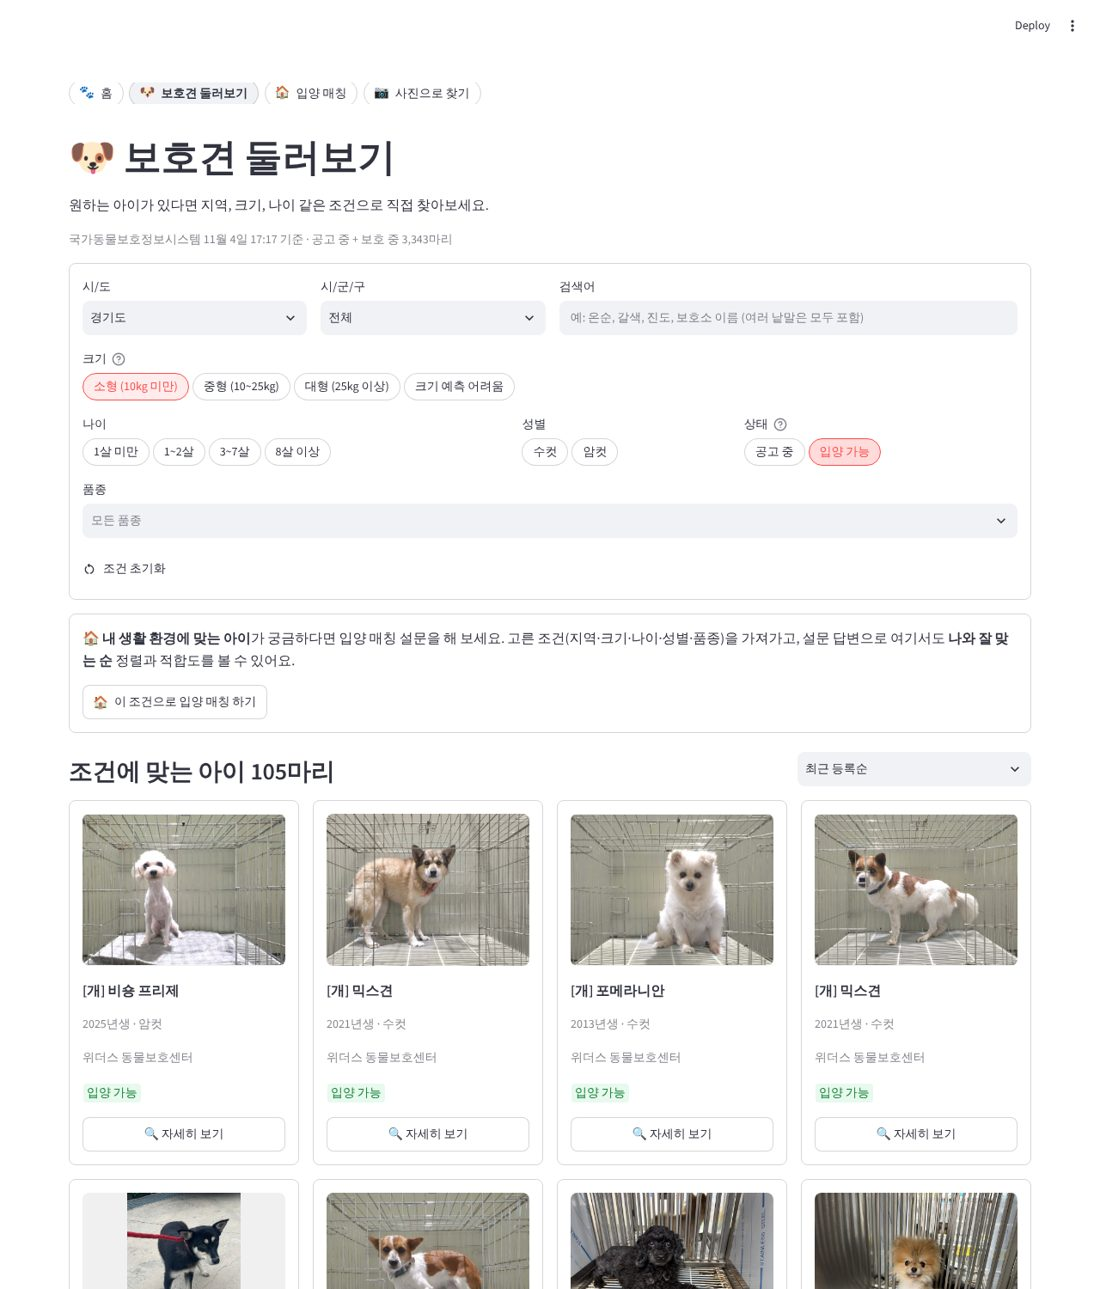
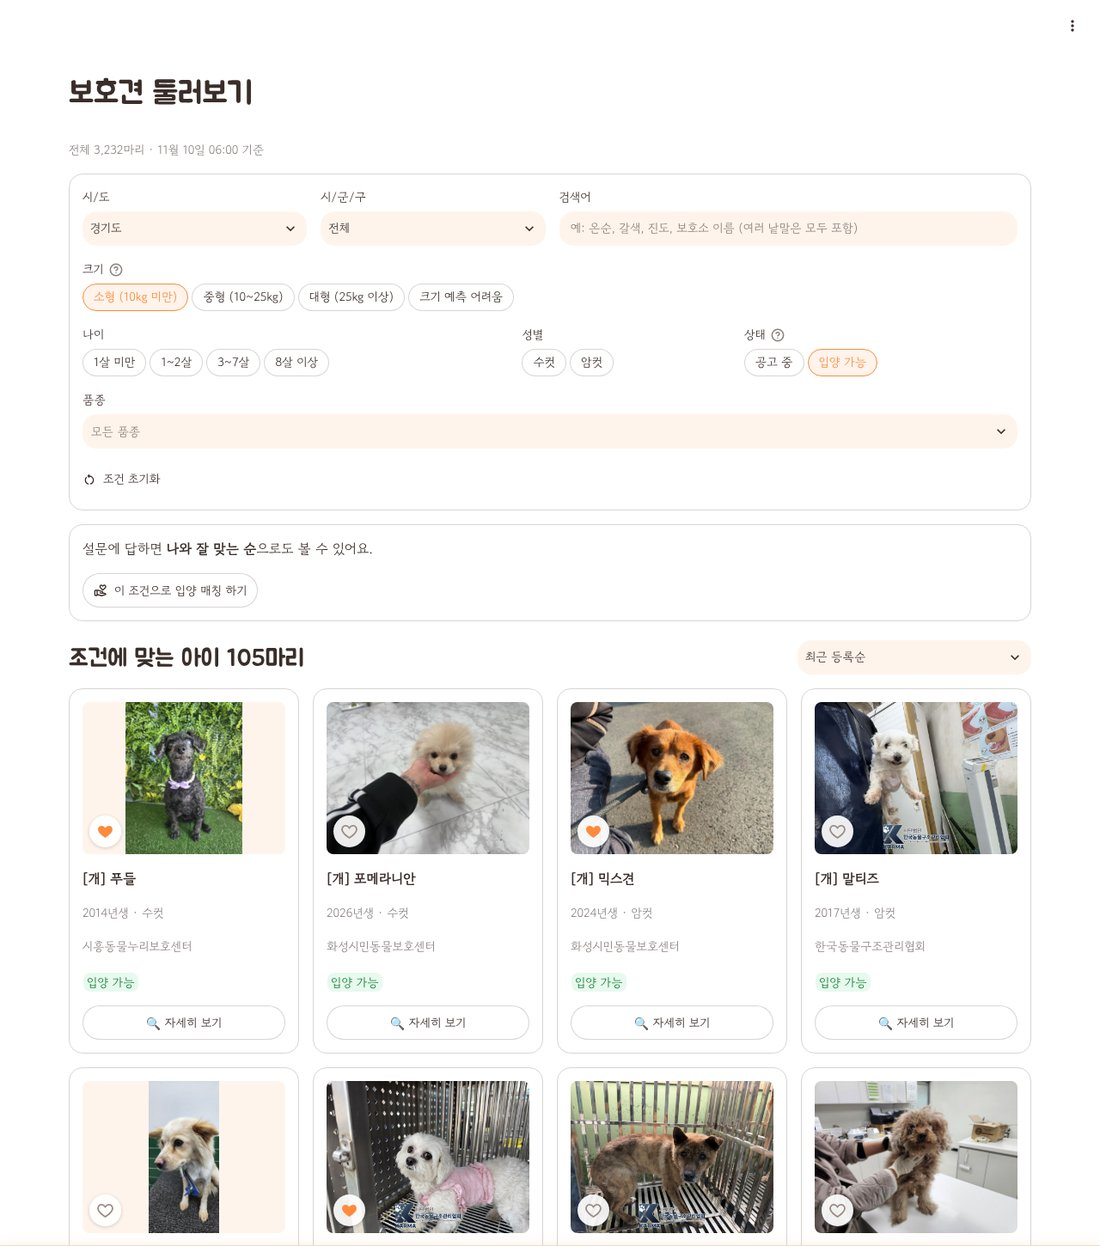
README 정리: 새 스크린샷, 시스템 구조 그림, 찜하기·사용자 테스트 내용 추가
- 스크린샷을 지금 화면(하단 탭, 새 홈, 찜)으로 다시 찍고 찜한 아이 화면 추가
- 시스템 구조 그림(mermaid): 공공데이터 API → GitHub Actions → data 브랜치 → 앱 → 브라우저
- 찜하기 설명, 테스터 의견과 반영 내용(PR #16~#22) 표 추가
- 주요 기능·기술 스택·프로젝트 구조·배포 안내를 지금 코드에 맞춤

Claude-Session: https://claude.ai/code/session_01TUSA3UeiAMG3JgcQUXBP4t

diff --git a/README.md b/README.md
@@ -9,10 +9,11 @@
 
 **🔗 데모: https://pawmatch-kr.streamlit.app**
 
-- 🐾 **홈**: 내 위치나 고른 지역에서 가까운 보호소의 아이들부터 보기
-- 🐶 **보호견 둘러보기**: 원하는 아이가 있다면 지역·크기·나이·품종 같은 조건으로 직접 찾기
-- 🏠 **입양 매칭**: 어떤 아이가 맞을지 모르겠다면 생활 환경 설문으로 잘 맞는 아이와 그 이유 알아보기
+- 🏠 **홈**: 내 위치나 고른 지역에서 가까운 보호소의 아이들부터 보기
+- 🐾 **보호견 둘러보기**: 원하는 아이가 있다면 지역·크기·나이·품종 같은 조건으로 직접 찾기
+- 🤝 **입양 매칭**: 어떤 아이가 맞을지 모르겠다면 생활 환경 설문으로 잘 맞는 아이와 그 이유 알아보기
 - 📷 **사진으로 찾기**: 강아지 사진을 올리면 생김새가 비슷한 보호견 찾기
+- 🧡 **찜**: 마음에 드는 아이를 하트로 모아 두고 다시 보기
 
 ## 주요 기능
 
@@ -23,7 +24,8 @@
 | 마감 임박 우선 보기 | 보호견 둘러보기의 '공고 마감 임박순' 정렬 | 완료 |
 | 입양 매칭 | 생활 환경 설문(주거 형태, 산책 시간, 반려 경험, 가족 구성, 집 비우는 시간)으로 적합도 점수를 계산해 추천 이유·주의할 점과 함께 추천. 원하는 크기·나이·성별·품종은 선택 항목. '자세히 보기'로 사진 넘겨 보기·상세 정보·보호소 주소와 연락처 확인 | 완료 |
 | 사진으로 찾기 | 강아지 사진을 올리거나 찍으면 사전학습 이미지 모델(CLIP)로 생김새가 비슷한 보호견 검색, 지역으로 좁히기 | 완료 |
-| 화면 이동 | 모든 화면 위 바로가기 버튼 줄(모바일에서도 항상 보임), 홈 바로가기 카드. 다른 화면에 갔다 와도 입력한 조건 유지. 한 번 받은 내 위치·켠 카메라는 30분 동안 다시 묻지 않음 | 완료 |
+| 찜하기 | 카드 사진 왼쪽 아래 하트로 마음에 드는 아이를 모아 두고 '찜' 탭에서 보기. 찜 목록은 브라우저에만 저장(로그인 필요 없음) | 완료 |
+| 화면 이동 | 화면 맨 아래 고정 아이콘 탭(홈·둘러보기·매칭·사진 찾기·찜), 홈 맨 아래 바로가기 카드. 다른 화면에 갔다 와도 입력한 조건 유지. 한 번 받은 내 위치·켠 카메라는 30분 동안 다시 묻지 않음 | 완료 |
 | 데이터 자동 갱신 | GitHub Actions가 30분마다 데이터를 받아 두어 첫 화면이 빠르게 열림 | 완료 |
 
 ## 데모 / 스크린샷
@@ -35,12 +37,14 @@
 > 사진으로 찾기는 처음 사진을 올릴 때 분석 모델을 준비하느라 조금 더 걸립니다.
 
 ### 홈: 가까운 보호소의 아이들
-고른 지역(예: 경기도 수원시) 안의 보호소를 먼저, 그다음 가까운 보호소 순으로 보호소별로 묶어 보여줍니다.
+맨 위에는 지금 가족을 기다리는 아이 수만 짧게 보여주고(서비스 소개는 'ⓘ 소개' 버튼 안), 바로 아래에서
+내 위치나 고른 지역(예: 경기도) 안의 보호소를 먼저, 그다음 가까운 보호소 순으로 보호소별로 묶어 보여줍니다.
 
 ![홈 화면](docs/images/home.jpg)
 
 ### 보호견 둘러보기: 조건으로 직접 찾기
 지역·크기·나이·성별·상태·품종·검색어로 거르고, 최근 등록순·공고 마감 임박순·오래 기다린 순으로 정렬합니다.
+사진 왼쪽 아래 하트(♡)를 누르면 찜 목록에 들어갑니다.
 
 ![보호견 둘러보기](docs/images/browse.jpg)
 
@@ -59,8 +63,13 @@
 
 ![사진으로 찾기](docs/images/photo_search.jpg)
 
+### 찜한 아이
+어느 화면에서든 하트를 누른 아이를 '찜' 탭에서 모아 봅니다. 찜 목록은 이 기기의 브라우저에만 저장됩니다.
+
+![찜한 아이](docs/images/favorites.jpg)
+
 ### 휴대폰 화면
-모든 화면 위에 바로가기 버튼 줄이 있어 휴대폰에서도 메뉴를 바로 찾을 수 있습니다.
+화면 맨 아래 고정 아이콘 탭으로 어느 화면에서든 바로 이동합니다. (왼쪽부터 홈, 둘러보기, 찜)
 
 ![휴대폰 화면](docs/images/mobile.jpg)
 
@@ -71,14 +80,32 @@
 - **데이터**: 공공데이터포털 국가동물보호정보시스템 구조동물 조회 서비스
 - **이미지 검색**: 사전학습 이미지 모델 CLIP ViT-B/32 (ONNX), [fastembed](https://github.com/qdrant/fastembed) + onnxruntime (PyTorch 없이 CPU로 실행)
 - **데이터 갱신**: GitHub Actions (30분마다 실행, `data` 브랜치에 스냅샷 저장)
-- **디자인**: 흰 배경 + 주황 포인트(`#FF8A3D`) 테마(`.streamlit/config.toml`), 휴대폰이 다크 모드여도 밝은 화면 유지. 글꼴 Jua(제목)·Gowun Dodum(본문)
+- **디자인**: 흰 배경 + 주황 포인트(`#FF8A3D`) 테마(`.streamlit/config.toml`), 휴대폰이 다크 모드여도 밝은 화면 유지. 글꼴 Jua(제목)·Gowun Dodum(본문), Material 아이콘. 화면 맨 아래 고정 탭
+- **찜 저장**: 브라우저 localStorage ([streamlit-js-eval](https://github.com/aghasemi/streamlit_js_eval)로 읽기)
 - **배포**: [Streamlit Community Cloud](https://streamlit.io/cloud) (GitHub 푸시 시 자동 반영)
+
+## 시스템 구조
+
+```mermaid
+flowchart LR
+    API["공공데이터포털<br/>구조동물·보호소 API"] -->|"30분마다"| GA["GitHub Actions<br/>fetch_data.py<br/>build_embeddings.py"]
+    GA -->|"snapshot.json.gz<br/>embeddings.npz"| DATA[("data 브랜치")]
+    DATA --> APP["Streamlit 앱<br/>Community Cloud"]
+    API -.->|"저장된 데이터가 오래됐을 때만"| APP
+    KAKAO["카카오 로컬 API"] -.->|"시/군/구 좌표"| APP
+    APP <--> USER["사용자 브라우저"]
+    USER --- LS[("localStorage<br/>찜 목록")]
+```
+
+- 공공데이터 API는 느리고 가끔 끊겨서, GitHub Actions가 미리 받아 둔 스냅샷을 앱이 바로 읽습니다. ([데이터 자동 갱신](#데이터-자동-갱신-github-actions))
+- 사진으로 찾기에 쓰는 보호견 사진 임베딩도 같은 워크플로에서 새로 들어온 사진만 계산해 둡니다. ([사진으로 찾기](#사진으로-찾기))
+- 사용자가 올린 사진, 내 위치, 찜 목록은 서버에 저장하지 않습니다.
 
 ## 프로젝트 구조
 
 ```
 PawMatch/
-├── app.py               # Streamlit 진입점 (페이지 내비게이션)
+├── app.py               # Streamlit 진입점 (페이지 목록, 하단 탭, 배포 갱신 때 모듈 다시 불러오기)
 ├── CLAUDE.md            # AI 코딩 도구(Claude Code) 작업 규칙
 ├── .streamlit/config.toml # 화면 테마 (색·글꼴·모서리)
 ├── pytest.ini           # 테스트 설정 (프로젝트 루트를 모듈 경로에 추가)
@@ -86,7 +113,8 @@ PawMatch/
 │   ├── home.py          # 홈
 │   ├── browse.py        # 보호견 둘러보기
 │   ├── match.py         # 입양 매칭
-│   └── photo_search.py  # 사진으로 찾기
+│   ├── photo_search.py  # 사진으로 찾기
+│   └── favorites.py     # 찜한 아이
 ├── pawmatch/            # 핵심 로직
 │   ├── config.py        # 환경 변수(API 키) 로딩
 │   ├── api.py           # 공공데이터 API 클라이언트 (유기견, 보호소, 동시 요청·재시도)
@@ -100,7 +128,8 @@ PawMatch/
 │   ├── matching.py      # 설문 기반 매칭 점수 계산
 │   ├── browse.py        # 보호견 둘러보기 조건 검색·정렬
 │   ├── display.py       # 나이·성별·공고 상태 표시 문구
-│   ├── ui.py            # 유기견 카드·사진 캐러셀 (사진 대체 처리 포함), 데이터 로딩 화면
+│   ├── ui.py            # 유기견 카드·사진 캐러셀 (사진 대체 처리 포함), 하단 탭, 데이터 로딩 화면
+│   ├── favorites.py     # 찜하기: 하트 버튼, 브라우저 저장(localStorage), 찜 목록 읽기
 │   ├── detail.py        # 유기견 상세 정보 창 (사진, 정보, 보호소 주소·연락처)
 │   └── image_search.py  # 사진으로 찾기: CLIP 임베딩 만들기·저장·유사도 검색
 ├── scripts/
@@ -190,6 +219,10 @@ PawMatch/
 
 4. **Deploy** 클릭. 이후 해당 브랜치에 푸시하면 자동으로 다시 배포됩니다.
 
+> 앱이 켜진 채로 새 코드가 들어오면 Streamlit은 `app.py`만 새로 읽고 `pawmatch/` 모듈은 예전 코드를 그대로 써서
+> 오류가 날 수 있습니다. 그래서 `app.py`가 `pawmatch/` 파일이 바뀐 것을 보면 모듈을 다시 불러오게 했습니다.
+> 그래도 화면이 예전 그대로면 오른쪽 아래 **Manage app → Reboot app**을 눌러 주세요.
+
 ## 데이터 자동 갱신 (GitHub Actions)
 
 공공데이터 API는 한 번 요청에 2~9초가 걸리고 가끔 연결이 끊겨서, 데이터를 미리 받아 둡니다.
@@ -225,6 +258,14 @@ GitHub Actions (매시 7분·37분)        Streamlit 앱
 - 사진 한 장 분석 약 70ms, 모델(약 340MB)은 서버가 처음 쓸 때 한 번 내려받아 모든 사용자가 같이 씁니다.
 - 올린 사진은 비슷한 아이를 찾는 데에만 쓰고 저장하지 않습니다.
 
+## 찜하기
+
+- 카드 사진 왼쪽 아래 하트를 누르면 그 아이의 공고 번호를 브라우저 localStorage(`pawmatch_favorites`)에 저장합니다.
+  서버를 거치지 않아 바로 바뀌고, 같은 아이의 하트는 화면 어디에 있든 같이 바뀝니다.
+- 서버에는 저장하지 않아 로그인이 필요 없습니다. 대신 기기·브라우저마다 따로 저장되고, 브라우저 기록을 지우면 사라집니다.
+- '찜' 화면은 [streamlit-js-eval](https://github.com/aghasemi/streamlit_js_eval)로 목록을 읽어 지금 데이터와 맞춰 보여줍니다.
+  입양됐거나 공고가 끝나 데이터에서 빠진 아이는 몇 마리인지만 알려줍니다. (최근 찜한 순으로 최대 200마리)
+
 ## 입양 매칭 점수
 
 설문 응답과 보호소가 입력한 정보(체중, 나이, 품종, 특징 메모)로 항목별 점수(0~1)를 계산하고,
@@ -259,6 +300,19 @@ GitHub Actions (매시 7분·37분)        Streamlit 앱
 - 카카오 키(`KAKAO_REST_API_KEY`)가 없거나 찾지 못하면 시청/도청 위치를 기준으로 계산합니다.
   [Kakao Developers](https://developers.kakao.com/)에서 앱을 만들고 REST API 키를 발급받아 `.env` 또는 Streamlit Secrets에 넣으면 됩니다.
 
+## 사용자 테스트와 개선
+
+배포한 뒤 테스터들이 휴대폰으로 직접 써 보고 준 의견을 하나씩 반영했습니다.
+
+| 테스터 의견 | 반영한 내용 | PR |
+| --- | --- | --- |
+| 화면을 옮길 때마다 위치 권한을 다시 묻고, 사진 화면에 들어가자마자 카메라가 켜짐 | 한 번 받은 위치는 30분 동안 기억, 카메라는 '카메라 켜기'를 눌렀을 때만 켬 | [#16](https://github.com/chodragon04/PawMatch/pull/16) |
+| 귀여운 분위기면 좋겠고, 다크 모드에서도 같은 느낌이었으면 | 흰 배경 + 주황 포인트 테마, 다크 모드에서도 밝은 화면 유지 | [#17](https://github.com/chodragon04/PawMatch/pull/17) |
+| 휴대폰에서 위쪽 메뉴가 칸 안에서 옆으로 밀려 보임 | 화면 맨 아래 고정 아이콘 탭 + 화면마다 굵은 제목. Streamlit 배지에 가리지 않게 배치 | [#18](https://github.com/chodragon04/PawMatch/pull/18), [#19](https://github.com/chodragon04/PawMatch/pull/19) |
+| 홈에서 가까운 보호소 아이들을 먼저 보고 싶고, 소개 글은 작게 | 홈 맨 위를 한 줄로, 소개는 버튼 안으로, 바로가기 카드는 맨 아래(카드 어디를 눌러도 이동) | [#20](https://github.com/chodragon04/PawMatch/pull/20) |
+| 글이 너무 많음 | 안내 문장을 한 줄로 줄이고, 자세한 설명은 도움말(?)로 옮김 | [#21](https://github.com/chodragon04/PawMatch/pull/21) |
+| 마음에 드는 아이를 모아 두고 싶음 | 사진 왼쪽 아래 하트로 찜, '찜' 탭 | [#22](https://github.com/chodragon04/PawMatch/pull/22) |
+
 ## 데이터 출처
 
 - 농림축산식품부 농림축산검역본부, 국가동물보호정보시스템 구조동물 조회 서비스 (공공데이터포털)
@@ -269,7 +323,8 @@ GitHub Actions (매시 7분·37분)        Streamlit 앱
 ## 참고자료
 
 - [Streamlit Documentation](https://docs.streamlit.io/)
-- [streamlit-js-eval](https://github.com/aghasemi/streamlit_js_eval) (MIT License): 브라우저 위치 정보(Geolocation) 가져오기에 사용
+- [streamlit-js-eval](https://github.com/aghasemi/streamlit_js_eval) (MIT License): 브라우저 위치 정보(Geolocation) 가져오기, 찜 목록(localStorage) 읽기에 사용
+- [Material Symbols](https://fonts.google.com/icons) (Google, Apache License 2.0): 하단 탭·버튼 아이콘 (Streamlit 내장)
 - [공공데이터포털](https://www.data.go.kr/)
 - [카카오 로컬 API](https://developers.kakao.com/docs/latest/ko/local/dev-guide): 시/군/구 위치(좌표) 찾기에 사용
 - [CLIP](https://github.com/openai/CLIP) (OpenAI, MIT License): 사진으로 찾기의 이미지 모델 (ViT-B/32).
